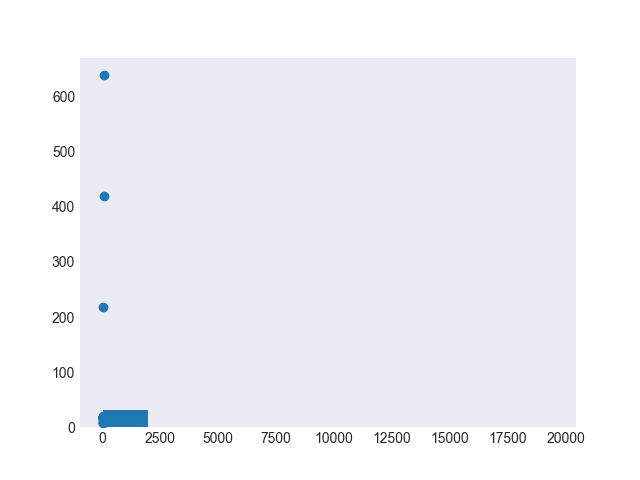
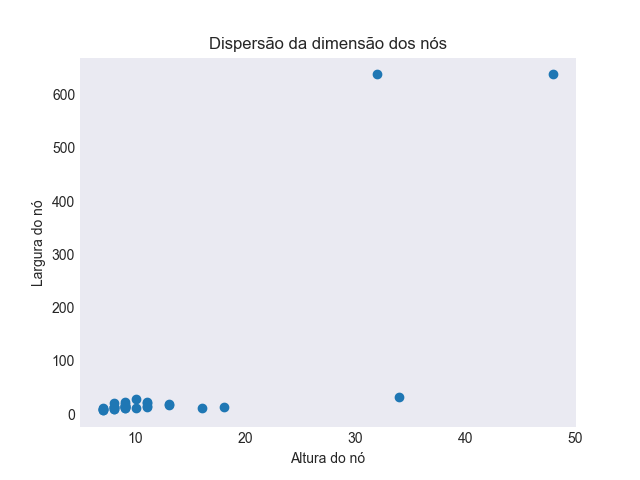
Realizado tratamento de erros

diff --git a/interface.py b/interface.py
@@ -18,23 +18,17 @@ sg.theme('DarkTanBlue')
 
 """ --------------- Variaveis Globais --------------- """
 font = ("Arial, 11")
-SIZE_FRAME_X = 600      #Colocar configuração pra ajustar tamanho?
-SIZE_FRAME_Y = 200
+size = (600, 200)
 folder = os.getcwd()+'/database/'
-web = 0
-# dir_db = folder + '/database'
-
-scatter = 'scatter.png'
-hist = 'hist.png'
-color = 'color.png'
-pb = 'pb.png'
-
-#webcam_image = None
+webcam_type = 0
+modo_operacao = 0
+periodo_amostragem = 0.5
+imagens_file = ['scatter.png','hist.png','color.png','pb.png']
 
 """-------------------- Classes -------------------- """
 
 class Identificacao(Thread):
-    def __init__(self, target, intervalo, cam=None, database=[], name='Thread_identificacao'):
+    def __init__(self, target, cam=None, database=[], name='Thread_identificacao'):
         super().__init__()
         self.name = name
         self._target = target
@@ -42,32 +36,47 @@ class Identificacao(Thread):
         self.daemon = True
         """Custom Atributos"""
         self._database = database
-        self._intervalo = intervalo
         self.results = []
         self._count = 0
-        self.cam = cam
-        print(self.name, 'criada')
+        self._cam = cam
+        self._error = False
+        self._interval = 0
+        # print(self.name, 'criada')
 
     def run(self):                   #Teoricamente eu garanto que há dados para identificar. (tratar excessão)
         print(self.name, 'iniciada')
         while not self._finished.is_set():
             st = time.time()
-            if len(self._database) != 0:
-                self.results = self._target(folder+self._database[self._count])   # Função que roda com database
-            else:
-                self.results = self._target(getImagemWebcam(self.cam))                    # Função tempo real
-                pass
-            print("Elapsed Time função identificação: "+str(cronometro(st,4)))    # Código de logging
-            self._count += 1
-            time.sleep(self._intervalo)
+            try:
+                if len(self._database) != 0:
+                    self.results = self._target(folder+self._database[self._count])   # Função que roda com database
+                else:
+                    self.results = self._target(getImagemWebcam(self._cam))                    # Função tempo real
+                self._interval = cronometro(st,4)
+                self._count += 1
+                t = periodo_amostragem - cronometro(st)
+                if t < 0:
+                    t = 0
+                time.sleep(t)
+            except Exception as e:
+                self._error = True
+                time.sleep(2)
+                raise e
         print(self.name, 'destruida')
 
     def shutdown(self):
         self._finished.set()
         print(self.name, 'Desativada')
+        self.join()
 
     def contagemDados(self):
         return self._count
+
+    def elapsedTime(self):
+        return self._interval
+
+    def isError(self):
+        return self._error
 
     def retornaDados(self):
         nos, classe, _, _, _, _ = self.results
@@ -85,9 +94,9 @@ def getImagemWebcam(cam):
     print('Elapsed Time intermed: ' + str(round(time.time() - st, 4)))
     return img_cam
 
-def printImageWebcam(frame, waitkey=3):
-    cv.imshow('teste',frame)
-    cv.waitKey(waitkey)
+# def printImageWebcam(frame, waitkey=1):
+#     cv.imshow('teste',frame)
+#     cv.waitKey(waitkey)
 
 def identification(img):
 
@@ -108,8 +117,10 @@ def getDatabase(folder):
     return fnames
 
 def verificaStatusThread(t):
-    if t.is_alive():
-        print('status thread:', t.is_alive())
+    print('status thread:', t.is_alive())
+    print('error:', t.isErrorThread())
+    # if status: print('status thread:', status)
+    # return status
 
 def createColumn(elements,x,y):
     col = sg.Column([[sg.Frame('',
@@ -151,8 +162,8 @@ def redimensionar(filename,size):
 
 """ ------------- Janelas do programa -------------- """
 
-def setup_window(intervalo,mode):
-    global folder
+def setup_window():
+    global folder, periodo_amostragem, webcam_type, modo_operacao
     win_size = (500,400)
     p = (0,10)
     font = "Any 11 bold"
@@ -168,7 +179,7 @@ def setup_window(intervalo,mode):
          sg.Radio('Externo-1', "RadioDemo2", default=False, size=(10, 1), k='-C2-'),
          sg.Radio('Externo-2', "RadioDemo2", default=False, size=(10, 1), k='-C3-')],
         [sg.Text('Selecione o intervalo de amostragem (ms):',font=font, p=p)],
-        [sg.Slider(range=(100, 5000), size=(30, 8), default_value=intervalo*1000, orientation='h', key='-SLIDER-')],
+        [sg.Slider(resolution=100,range=(100, 2000), size=(30, 8), default_value=periodo_amostragem*1000, orientation='h', key='-SLIDER-')],
 
 
         [sg.Button('Ok',s=(10,1),pad=(0,10))]],
@@ -191,29 +202,27 @@ def setup_window(intervalo,mode):
         elif event == "-R1-":
             window['-FOLDER-'].update(disabled=False)
             window['-BROWSE-'].update(disabled=False)
-            mode = 0
+            modo_operacao = 0
             # print(mode, values['-R1-'], values['-R2-'])
 
         elif event == "-R2-":
             window['-FOLDER-'].update(disabled=True)
             window['-BROWSE-'].update(disabled=True)
-            mode = 1
+            modo_operacao = 1
             # print(mode, values['-R1-'], values['-R2-'])
 
         elif event == "Ok":
             if values['-C1-']:
-                webcam = 0
+                webcam_type = 0
             elif values['-C2-']:
-                webcam = 1
+                webcam_type = 1
             else:
-                webcam = 2
-            intervalo = float(values['-SLIDER-'])/1000
-            print(mode, values['-R1-'], values['-R2-'], webcam)
-            print(getDatabase(folder))
-            window.close()
-            return intervalo, mode, webcam
+                webcam_type = 2
+            periodo_amostragem = float(values['-SLIDER-'])/1000
+            # print(modo_operacao,folder, webcam_type, periodo_amostragem)
+            break
+
     window.close()
-    return intervalo, mode
 
 def info_window():
     win_size = (600,200)
@@ -232,27 +241,38 @@ def info_window():
             break
     window.close()
 
+def error_window():
+
+    font = "Any 11 bold"
+
+    col1 = sg.Column([
+        [sg.Text('Aconteceu um erro que interrompeu a Thread de identificação', background_color='red',p=(0,20), font='Any 13 bold')]])
+    col2 = sg.Column([[sg.Button('Fechar')]],expand_x=True,element_justification='center',p=(0,10))
+
+    layout = [[col1],[col2]]
+    window = sg.Window('Classificador de Madeira', layout,element_justification='center', keep_on_top=True, finalize=True, grab_anywhere=True)
+    while True:
+        event, values = window.read()
+        if event == 'Fechar' or event == sg.WIN_CLOSED:
+            break
+    window.close()
+
 def main_window():
 
     # ----- variaveis -----
-    global web
-    modo_operacao = 0           # 0 - Database, 1 - Tempo Real
+    global size, webcam_type, modo_operacao, periodo_amostragem
     a, b, c = 0, 0, 0
     startTime, atual = 0, 0
-    x = SIZE_FRAME_X
-    y = SIZE_FRAME_Y
-    periodo_amostragem = 0.5
+    x, y = size
     elem_key = ['-IMAGE1-', '-IMAGE2-', '-IMAGE3-', '-IMAGE4-']
     dir_img = os.getcwd() + '\img'
-    # imagens = getDatabase(dir_img)
-    # print(imagens)
-    imagens = {elem_key[0]: pb,
-               elem_key[1]: scatter,
-               elem_key[2]: color,
-               elem_key[3]: hist}
-    identify = Thread()
+    imagens = {}
+    for i in range(len(elem_key)):
+        imagens.update({elem_key[i]: imagens_file[i]})
+    identify = Identificacao(None,None)
 
     # ----- frames -----
+
     col1 = createColumn([[sg.Text('Capa Atual', expand_x=True, background_color='#005e80', justification='c')],
                          [sg.Column([[sg.Column([[sg.Text("Número de Nós: 0",
                                                           k='-NOS-')]]),
@@ -319,9 +339,6 @@ def main_window():
         # verificaStatusThread(identify)  # Código de logging
         event, values = main_window.read(timeout=10)
 
-
-        # Se funcionar: Ideia solução. Criar variavel global imagem_webcam e ficar atualizando
-
         if event == sg.WIN_CLOSED:
             break
 
@@ -329,7 +346,7 @@ def main_window():
             info_window()
 
         elif event == "Configurações":
-            periodo_amostragem, modo_operacao, webcam = setup_window(periodo_amostragem, modo_operacao)
+            setup_window()
 
         elif event == "Iniciar":                                     # Start identificação
             start.update(disabled=True)
@@ -337,15 +354,13 @@ def main_window():
             about.update(disabled=True)
             stop.update(disabled=False)
             if modo_operacao == 0:
-                identify = Identificacao(target=identification, database=getDatabase(folder), intervalo=periodo_amostragem)
+                identify = Identificacao(target=identification, database=getDatabase(folder))
             elif modo_operacao == 1:
-                # webcam_image = getImagemWebcam(webcam)  # Get web_cam image.
-                identify = Identificacao(target=identification, cam = setWebcam(web), intervalo=periodo_amostragem)
-
+                identify = Identificacao(target=identification, cam=setWebcam(webcam_type))
             identify.start()
             startTime = time.time()
 
-        elif event == "Parar":                                       # Stop identificação
+        elif event == "Parar" or (identify.isError()):                                       # Stop identificação
             start.update(disabled=False)
             config.update(disabled=False)
             about.update(disabled=False)
@@ -353,28 +368,22 @@ def main_window():
             identify.shutdown()
             startTime = 0
             atual = 0
+            if identify.isError():
+                identify = Identificacao(None, None)
+                error_window()
 
         if startTime != 0:                                           # Identificacao
-            t = cronometro(startTime)
-            crono.update(str(t) + ' seg')     # Aprimorar exibição para hh:mm:ss:ms
+            crono.update(str(cronometro(startTime)) + ' seg')  # Aprimorar exibição para hh:mm:ss:ms
 
             anterior = atual
             atual = identify.contagemDados()
 
             if anterior != atual:
-                # webcam_image = getImagemWebcam(webcam) # Get web_cam image.
-
-                # Código de logging
-                print('Amostra '+str(atual)+' - '+str(cronometro(startTime,4)))
-                print('Delay acumulado: '+str(cronometro(startTime,4) - anterior*periodo_amostragem))
-                print('Delay médio: ' + str((cronometro(startTime,4) - anterior * periodo_amostragem)/atual))
-                st = time.time()
-                # Código de logging
+                st = time.time()         # Código de logging
 
                 nnos, classe = identify.retornaDados()
                 main_window['-NOS-'].update('Número de Nós: ' + str(nnos))
                 main_window['-CLASSE-'].update("Classe: " + classe)
-
                 if classe == "A":
                     a += 1
                     main_window['-A-'].update("Tipo A: " + str(a))
@@ -386,7 +395,6 @@ def main_window():
                     main_window['-C-'].update("Tipo C: " + str(c))
                 else:
                     pass  # Raise error#
-
                 main_window['-TOTAL-'].update("Total de Capas: " + str(a+b+c))
 
                 for i in elem_key:
@@ -398,7 +406,14 @@ def main_window():
                         main_window[i].update(data=image)
                     except:
                         pass
-                print('Elapsed Time loop de exibição: '+str(cronometro(st,4))) # Código de logging
+
+                # Código de logging
+                print('Amostra ' + str(atual) + ' - ' + str(cronometro(startTime, 4)))
+                print('Delay acumulado: ' + str(cronometro(startTime, 4) - anterior * periodo_amostragem))
+                print('Delay médio: ' + str((cronometro(startTime, 4) - anterior * periodo_amostragem) / atual))
+                print("Elapsed Time função identificação: " + str(identify.elapsedTime()))
+                print('Elapsed Time loop de exibição: ' + str(cronometro(st, 4)))
+                # Código de logging
 
     main_window.close()
 

diff --git a/classificacao_script.py b/classificacao_script.py
@@ -36,19 +36,20 @@ def classifica(fframe,color):
     """OBS: deve apenas criar imagens .png (verificar o custo computacional de atualizar a cada nova capa?)"""
 
     plt.scatter(stats[:,3],stats[:,2])
-    # plt.xlabel('Altura do nó')
-    # plt.ylabel('Largura do nó')
-    # plt.title('Dispersão da dimensão dos nós')
+    plt.xlabel('Altura do nó')
+    plt.ylabel('Largura do nó')
+    plt.title('Dispersão da dimensão dos nós')
     plt.savefig('img/scatter.png')
     scatter = cv.imread('scatter.png')
     plt.close()
 
     plt.hist(stats[:,4])
-    # plt.xlabel('Área do nó')
-    # plt.ylabel('Frequência')
-    # plt.title('Dispersão da dimensão dos nós')
+    plt.xlabel('Área do nó')
+    plt.ylabel('Frequência')
+    plt.title('Dispersão da dimensão dos nós')
     plt.savefig('img/hist.png')
     hist = cv.imread('hist.png')
+    plt.close()
 
     for rows in stats:
         color = cv.rectangle(color, (rows[0], rows[1]), (rows[0] + rows[2], rows[1] + rows[3]), (255, 0, 0), 2)

diff --git a/intermed.py b/intermed.py
@@ -8,10 +8,10 @@ def intermediario(imagem_classificar,x,y,w,h):
     # st = time()
     pb = tratament_preliminar.tratamento_preliminar(imagem_classificar, x, y, w, h)
     # print('Elapsed Time tratamento preliminar: '+str(round(time()-st,4)))
-    st = time()
+    # st = time()
     [numero_de_nos,tipo_norma,colorida_bounding_box,scatter,hist] = classificacao_script.classifica(pb, imagem_classificar)   #Alterar o retorno do classifica
     # [numero_de_nos, tipo_norma, colorida_bounding_box] = classificacao_script.classifica(pb, imagem_classificar)
-    print('Elapsed Time classificacao: '+str(round(time()-st,4)))
+    # print('Elapsed Time classificacao: '+str(round(time()-st,4)))
     # cv2.imwrite(dir+'scatter.png',scatter)
     # cv2.imwrite(dir+'hist.png',hist)
     cv2.imwrite(dir+'color.png',colorida_bounding_box)

diff --git a/api.py b/api.py
@@ -7,8 +7,8 @@ def integracao(img):
         capa = cv.imread(img)
     else:
         capa = img
-    st = time()
+    # st = time()
     results = intermed.intermediario(capa,0,0,len(capa),len(capa[1]))
-    print('Elapsed Time intermed: '+str(round(time()-st,4)))
+    # print('Elapsed Time intermed: '+str(round(time()-st,4)))
     return results
 
